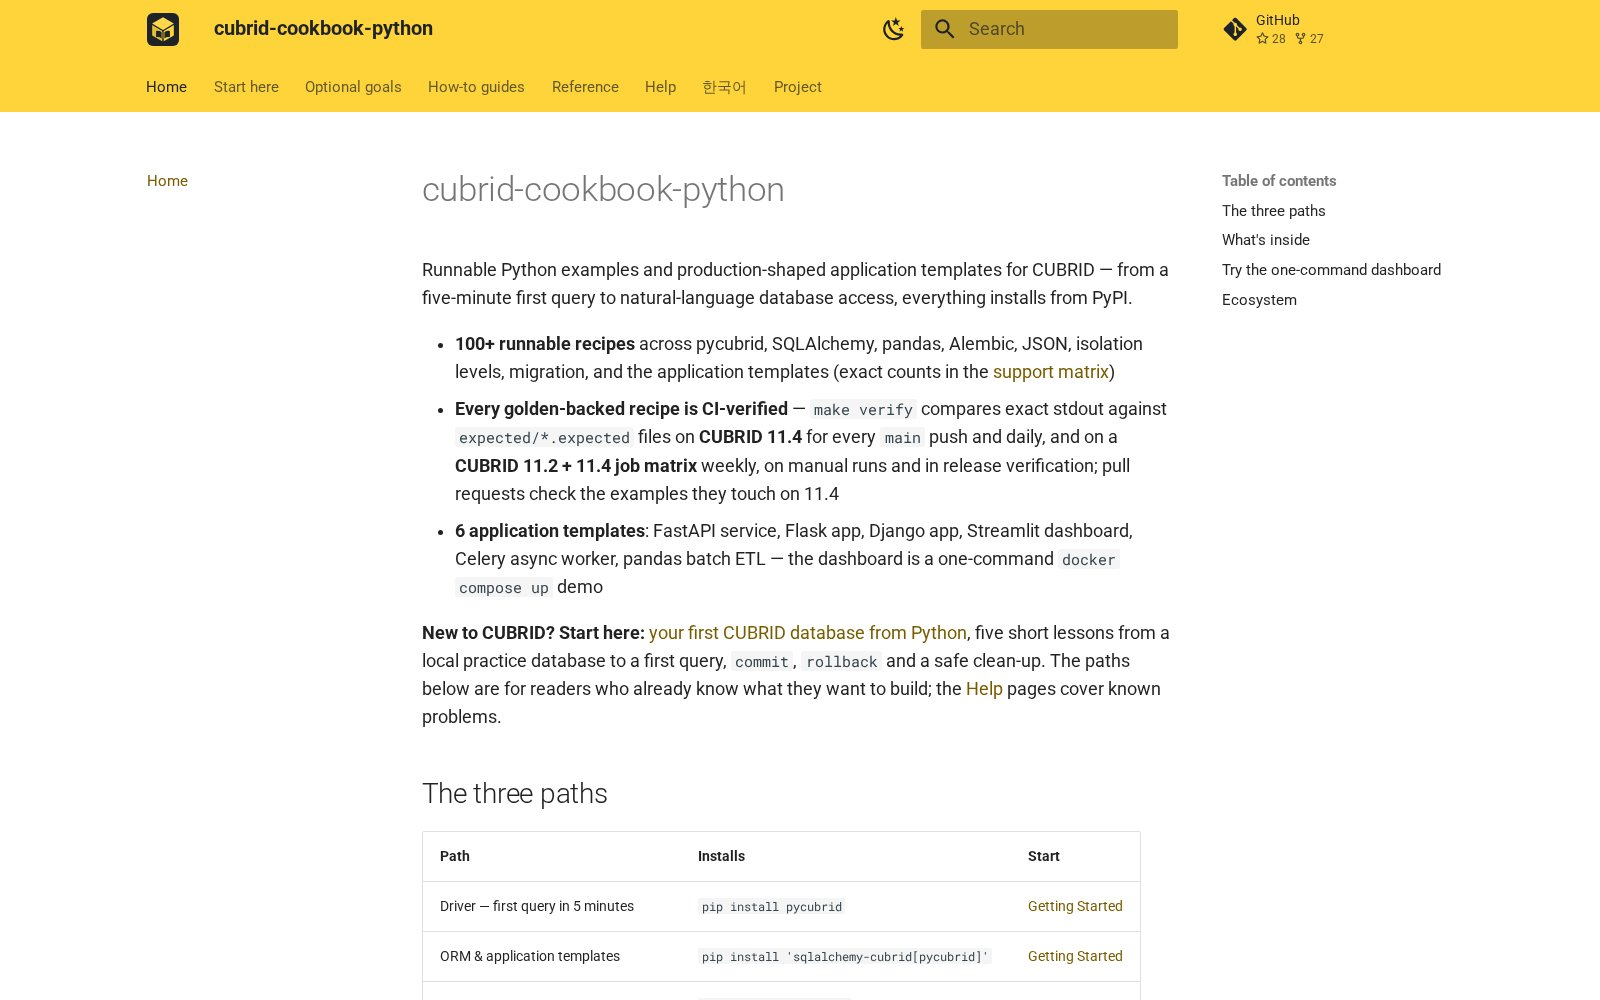
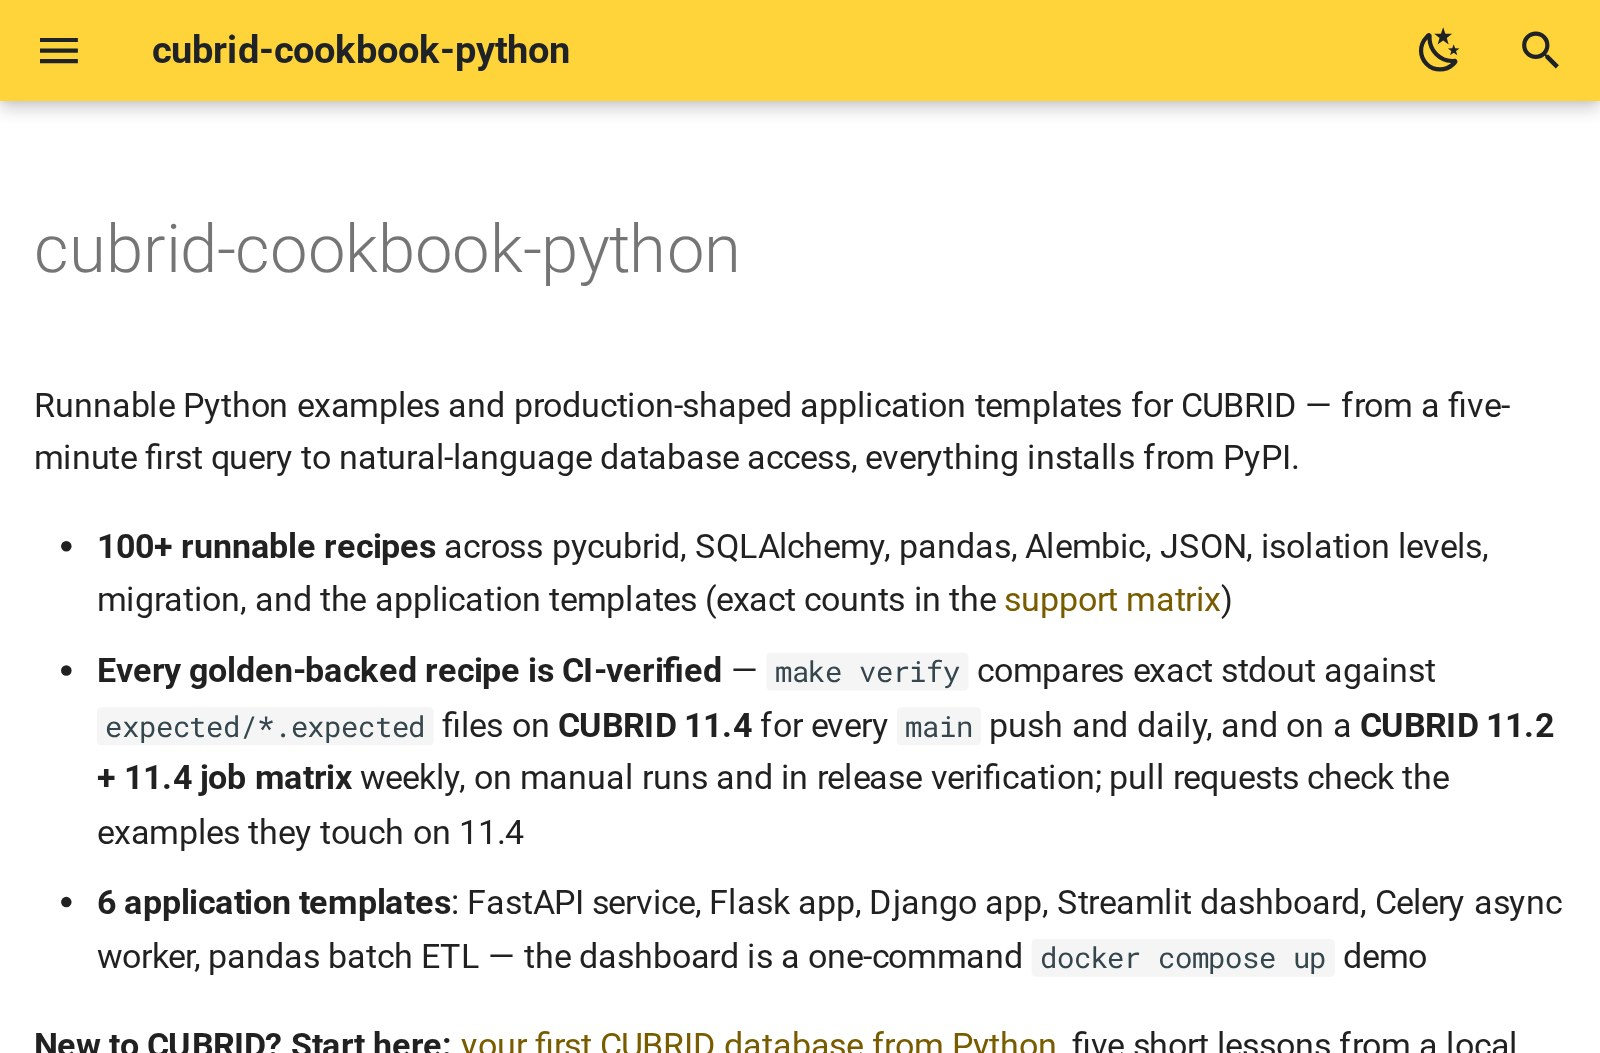
docs(ossdevcon): one legible screenshot per product slide and a single performance chart (#143)
- Slide 13 (cookbook): the four small documentation-site captures become
  one legible capture of the cookbook docs, taken 2026-11-01.
- Slide 15 (MCP server): the docs capture becomes a real usage example,
  the recorded Claude Code session asking for product counts and average
  price, answered through execute_query. The audit-log bullet now says it
  records executed SQL when enabled, matching the opt-in CUBRID_MCP_AUDIT_LOG.
- Slide 21: the right column is removed and the C-driver comparison chart
  is shown larger; the earlier undated results stay in APPENDIX.md.
- Unused captures are removed; the shots README records the new sources.

diff --git a/presentation/style.css b/presentation/style.css
@@ -185,3 +185,8 @@
    hide it, and let a two-column split give the text the full width. ── */
 .slidev-layout:is(.contest-deck, .showcase-deck) .frame:empty { display: none; }
 .slidev-layout:is(.contest-deck, .showcase-deck) .split:has(> .frame:empty) { grid-template-columns: 1fr; }
+
+/* A slide with one large screenshot: the bullets stay on one line, the image gets the wider column. */
+.slidev-layout.contest-deck .split.one-shot { grid-template-columns: minmax(0, 1fr) minmax(0, 1.2fr); }
+.slidev-layout.contest-deck .split.one-shot .explain li { white-space: nowrap; font-size: 0.95em; }
+.slidev-layout.contest-deck .split.one-shot .shot.clip { max-height: 330px; }

diff --git a/presentation/decks/2026-ossdevcon/slides.md b/presentation/decks/2026-ossdevcon/slides.md
@@ -345,7 +345,7 @@ TLS 암호화와 대용량 데이터도 지원하고, 테스트와 커버리지 
 <p class="kicker proj"><BrandMark name="cubrid-cookbook-python" alt="" :height="28" />cubrid-cookbook</p>
 <h2 class="one">만들고 나니, 쓰는 법이 필요했습니다</h2>
 
-<div class="split">
+<div class="split one-shot">
   <div class="stack">
     <ul class="explain">
       <li><b>예제 50여 개</b> — 연결부터 async · Alembic까지</li>
@@ -353,18 +353,8 @@ TLS 암호화와 대용량 데이터도 지원하고, 테스트와 커버리지 
       <li><b>문서 4개 사이트</b> · 한국어 포함</li>
     </ul>
   </div>
-  <div class="docs-grid">
-    <figure class="shot"><img src="/shots/docs-pycubrid.jpg" alt="pycubrid 문서 사이트"></figure>
-    <figure class="shot"><img src="/shots/docs-sqlalchemy-cubrid.jpg" alt="sqlalchemy-cubrid 문서 사이트"></figure>
-    <figure class="shot"><img src="/shots/docs-mcp.jpg" alt="cubrid-mcp-server 문서 사이트"></figure>
-    <figure class="shot"><img src="/shots/docs-cookbook.jpg" alt="cubrid-cookbook-python 문서 사이트"></figure>
-  </div>
+  <div class="stack"><figure class="shot clip"><img src="/shots/docs-cookbook.jpg" alt="cubrid-cookbook-python 문서 사이트 첫 화면"></figure><p class="small">cubrid-cookbook-python 문서 사이트</p></div>
 </div>
-
-<style>
-.docs-grid { display: grid; grid-template-columns: 1fr 1fr; gap: 10px; }
-.docs-grid .shot { box-shadow: 0 8px 18px -10px rgba(15, 27, 45, 0.35); border-radius: 8px; }
-</style>
 
 <!--
 [20초 · 활용성]
@@ -404,16 +394,16 @@ TLS 암호화와 대용량 데이터도 지원하고, 테스트와 커버리지 
 <p class="kicker proj"><BrandMark name="cubrid-mcp-server" alt="" :height="28" />cubrid-mcp-server</p>
 <h2 class="one">AI가 CUBRID에 직접 물어볼 수 있게</h2>
 
-<div class="split">
+<div class="split one-shot">
   <div class="stack">
     <p class="sub" style="white-space: nowrap">MCP: AI 도구용 공개 프로토콜</p>
     <ul class="explain">
       <li><b>tool 11개</b> — 스키마 · 인덱스 · 쿼리 등</li>
       <li><b>기본 읽기 전용</b> — 쓰기는 켤 때만</li>
-      <li><b>감사 로그</b> — tool 사용 기록</li>
+      <li><b>감사 로그</b> — 켜면 실행한 SQL 기록</li>
     </ul>
   </div>
-  <figure class="shot clip"><img src="/shots/docs-mcp.jpg" alt="cubrid-mcp-server 문서 사이트"></figure>
+  <div class="stack"><figure class="shot"><img src="/shots/mcp-session.jpg" alt="Claude Code에서 카테고리별 상품 수와 평균 가격을 묻자 cubrid-mcp-server의 execute_query로 SQL을 실행하고 표로 답한 화면"></figure><p class="small">Claude Code 실제 세션 재생 · 질문 → execute_query → 답</p></div>
 </div>
 
 <!--
@@ -532,34 +522,25 @@ PR에서는 변경 위험에 맞는 검사만 선택하고, 릴리스와 수동 
 <div class="split perf">
   <div class="stack">
     <p class="chart-cap">C 드라이버 CUBRIDdb = 100 · 짧을수록 좋음</p>
-    <PairChart :width="400" :label-width="150" before-name="CUBRIDdb (C)" after-name="pycubrid" :rows="[
+    <PairChart :width="420" :label-width="150" before-name="CUBRIDdb (C)" after-name="pycubrid" :rows="[
       { label: 'PK 조회', before: 100, after: 104, beforeText: '100', afterText: '104' },
       { label: '1만 행 fetchall', before: 100, after: 117, beforeText: '100', afterText: '117' },
       { label: 'executemany 1만 행', before: 100, after: 104, beforeText: '100', afterText: '104' },
     ]" />
     <p class="small">2026-10-28 · CUBRID 11.4.6 · pycubrid 1.15.0 · Appendix B</p>
   </div>
-  <div class="stack past">
-    <p class="chart-cap">같은 측정 · 이전 릴리스 1.10.0 → 1.15.0</p>
-    <ul class="explain">
-      <li><b>19개 작업</b> — 성능 회귀 없음</li>
-      <li><b>동시 접속 1·8·32</b> — 처리량 회귀 없음</li>
-      <li><b>메모리</b> — 최대 40 MiB (C 37 MiB)</li>
-    </ul>
-    <p class="small">2026-10-28 · 같은 서버·하네스 · 드라이버당 5회 교대</p>
-  </div>
 </div>
 
 <style>
 .chart-cap { font-size: 0.85rem; font-weight: 700; color: var(--ink); }
-.perf { align-items: start; grid-template-columns: 1.2fr 1fr; }
-.past .explain li { font-size: 0.92rem; }
+.perf { align-items: start; grid-template-columns: 1fr; }
+.perf .pairs { width: 760px; max-width: 100%; }
 </style>
 
 <!--
 [30초 · 기능테스트]
 성능은 무엇과 비교했는지부터 말씀드리겠습니다. 2026년 10월 28일, 같은 CUBRID 11.4.6 서버에서 공식 C 드라이버와 최신 pycubrid 1.15.0이 같은 작업에 걸린 시간을 쟀습니다. C 드라이버를 100으로 놓으면 pycubrid는 PK 조회 104, 1만 행 조회 117, 1만 행 일괄 입력 104입니다. 순수 Python이라 조금 느리지만, 격차가 크지 않습니다.
-대신 설치와 비동기, 이식성을 얻었습니다. 오른쪽은 같은 날 같은 방법으로 이전 릴리스 1.10.0과 비교한 결과입니다. 연결, 조회, 쓰기 19개 작업과 동시 접속 1개, 8개, 32개에서 성능 회귀가 없었습니다. 기능을 늘리면서 느려지지 않았다는 뜻입니다.
+대신 설치와 비동기, 이식성을 얻었습니다.
 -->
 
 ---

diff --git a/presentation/public/shots/README.md b/presentation/public/shots/README.md
@@ -3,14 +3,15 @@
 Screenshots of live pages, shown on the contest deck
 ([`decks/2026-ossdevcon/slides.md`](../../decks/2026-ossdevcon/slides.md)).
 They are evidence of what the pages looked like on the capture date, not
-generated output; there is no script that recreates them.
+generated output; there is no script that recreates them. The pycubrid,
+sqlalchemy-cubrid and cubrid-mcp-server documentation captures of 2026-10-28
+were removed on 2026-11-01 when the slides moved to one screenshot each; they
+remain in the git history.
 
 | File | Page | Captured | Size |
 |---|---|---|---|
-| `docs-pycubrid.jpg` | <https://cubrid-lab.github.io/pycubrid/> | 2026-10-28 (#103) | 1600×1000 |
-| `docs-sqlalchemy-cubrid.jpg` | <https://cubrid-lab.github.io/sqlalchemy-cubrid/> | 2026-10-28 (#103) | 1600×1000 |
-| `docs-mcp.jpg` | <https://cubrid-lab.github.io/cubrid-mcp-server/> | 2026-10-28 (#103) | 1600×1000 |
-| `docs-cookbook.jpg` | <https://cubrid-lab.github.io/cubrid-cookbook-python/> | 2026-10-28 (#103) | 1600×1000 |
+| `docs-cookbook.jpg` | <https://cubrid-lab.github.io/cubrid-cookbook-python/>, first screen at a 760×500 window so the text stays legible on the slide | 2026-11-01 | 1600×1053 |
+| `mcp-session.jpg` | Last frame of the intro video's MCP shot C3: a replay of a recorded Claude Code session against cubrid-mcp-server 0.6.0 (question → `execute_query` → answer), cropped to the left 64 % and top 74 % | recorded 2026-10-25 (see `projects/cubrid-lab/intro-video/PROVENANCE.md`) | 1400×904 |
 | `merged-prs.jpg` | pycubrid's merged pull requests on GitHub, each with its CI status | 2026-10-15 (`fa3d89f`) | 1600×804 |
 
 To update one, capture the same page at the same size, replace the file, and

diff --git a/events/2026-ossdevcon/APPENDIX.md b/events/2026-ossdevcon/APPENDIX.md
@@ -96,7 +96,7 @@ CUBRID version and workloads differ.
 | Record | What it is | Status |
 |---|---|---|
 | pycubrid vs PyMySQL, 2026-03-16 | Run `2026-03-16_initial` in cubrid-benchmark: pycubrid 0.5.0 against CUBRID 11.2, PyMySQL against a **MySQL 8.0** server. PyMySQL is a pure Python driver, not a C extension. This compares two database engines as well as two drivers, so it does not isolate driver overhead. It predates a pycubrid `fetchall` fix and an autocommit correction. | [Run directory](https://github.com/cubrid-lab/cubrid-benchmark/tree/b002085822054fdd48075a97b52c75921a73fda3/experiments/baseline-multilang/runs/2026-03-16_initial); not quoted in the talk |
-| Optimization results (native ping +280% throughput, SQLAlchemy `pool_pre_ping` +588%, bulk insert 1,000 rows 12.3% faster, select-all 19.9% faster, fetch 10,000 rows 96 → 78 ms) | Earlier profiling-driven changes. Run date, harness and library versions are **not recorded**, so they are not a current measurement. | Kept here as recorded; no longer shown on the slides (since 2026-11-01 the performance slide shows the 2026-10-28 comparison with pycubrid 1.10.0 instead) |
+| Optimization results (native ping +280% throughput, SQLAlchemy `pool_pre_ping` +588%, bulk insert 1,000 rows 12.3% faster, select-all 19.9% faster, fetch 10,000 rows 96 → 78 ms) | Earlier profiling-driven changes. Run date, harness and library versions are **not recorded**, so they are not a current measurement. | Kept here as recorded; no longer shown on the slides (since 2026-11-01 the performance slide shows only the 2026-10-28 comparison with CUBRIDdb) |
 
 Tracking and any future rerun: [issue #44](https://github.com/cubrid-lab/showcase/issues/44).
 

diff --git a/events/2026-ossdevcon/SLIDES.md b/events/2026-ossdevcon/SLIDES.md
@@ -140,7 +140,7 @@
 `6:30–7:00 · 30초 · 기능테스트`
 
 > 성능은 무엇과 비교했는지부터 말씀드리겠습니다. 2026년 10월 28일, 같은 CUBRID 11.4.6 서버에서 공식 C 드라이버와 최신 pycubrid 1.15.0이 같은 작업에 걸린 시간을 쟀습니다. C 드라이버를 100으로 놓으면 pycubrid는 PK 조회 104, 1만 행 조회 117, 1만 행 일괄 입력 104입니다. 순수 Python이라 조금 느리지만, 격차가 크지 않습니다.
-> 대신 설치와 비동기, 이식성을 얻었습니다. 오른쪽은 같은 날 같은 방법으로 이전 릴리스 1.10.0과 비교한 결과입니다. 연결, 조회, 쓰기 19개 작업과 동시 접속 1개, 8개, 32개에서 성능 회귀가 없었습니다. 기능을 늘리면서 느려지지 않았다는 뜻입니다.
+> 대신 설치와 비동기, 이식성을 얻었습니다.
 
 ### 22. 표준을 따르고, 누구나 쓸 수 있게 공개합니다
 
